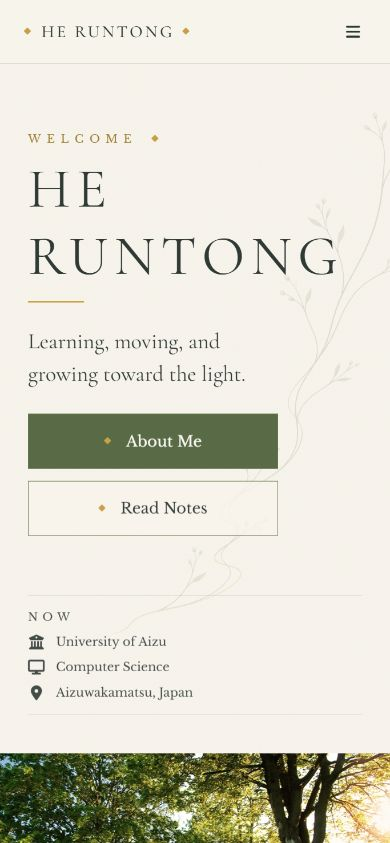
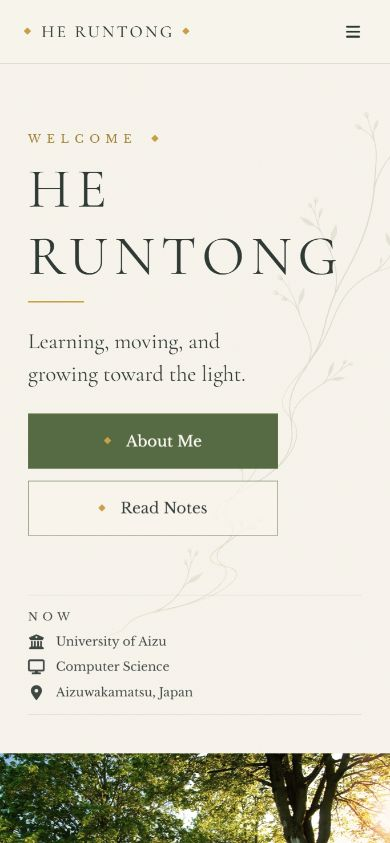
fix: make notes responsive at narrow widths

Changed region(s): [[0.0, 0.8944, 1.0, 1.0], [0.0615, 0.7711, 0.1231, 0.8019]]

diff --git a/assets/css/sunlit-home.css b/assets/css/sunlit-home.css
@@ -19,6 +19,7 @@
 html {
   scroll-behavior: smooth;
   scrollbar-width: none;
+  overflow-x: hidden;
 }
 
 html::-webkit-scrollbar,
@@ -342,6 +343,7 @@ body.sunlit-home {
   grid-template-columns: minmax(0, 1fr) 343px;
   gap: 48px;
   background-color: rgba(250, 248, 241, 0.9);
+  overflow: hidden;
 }
 
 .sunlit-notes h2 {
@@ -506,7 +508,12 @@ body.sunlit-home {
   to { rotate: 1.1deg; }
 }
 
-@media (max-width: 1180px) {
+@media (max-width: 1280px) {
+  .sunlit-notes {
+    grid-template-columns: minmax(0, 1fr) minmax(220px, 28vw);
+    gap: clamp(24px, 3vw, 40px);
+  }
+
   .sunlit-status {
     flex-wrap: wrap;
     justify-content: flex-start;
@@ -518,8 +525,42 @@ body.sunlit-home {
   }
 
   .sunlit-note-row {
-    grid-template-columns: minmax(220px, 1.1fr) minmax(260px, 1.6fr) 100px 16px;
-    gap: 16px;
+    min-height: 76px;
+    padding: 12px 0;
+    grid-template-columns: minmax(0, 1fr) max-content 16px;
+    grid-template-rows: auto auto;
+    column-gap: 16px;
+    row-gap: 4px;
+  }
+
+  .sunlit-note-row strong {
+    grid-column: 1;
+    grid-row: 1;
+  }
+
+  .sunlit-note-row span {
+    grid-column: 1 / -1;
+    grid-row: 2;
+  }
+
+  .sunlit-note-row time {
+    grid-column: 2;
+    grid-row: 1;
+  }
+
+  .sunlit-note-row > i {
+    grid-column: 3;
+    grid-row: 1;
+  }
+
+  .sunlit-preview-frame {
+    width: 100%;
+    height: auto;
+    aspect-ratio: 278 / 202;
+  }
+
+  .sunlit-vine-notes {
+    right: -38px;
   }
 }
 

diff --git a/design-qa.md b/design-qa.md
@@ -9,6 +9,8 @@
 - State: initial page load, top of page, no hover, menu closed.
 - Full comparison: `docs/qa/comparison-desktop.jpg`; the one-pixel width difference in the source is padded rather than stretched.
 - Focused comparisons: `docs/qa/comparison-hero.jpg` and `docs/qa/comparison-notes.jpg`.
+- Responsive regression source: `docs/qa/responsive-overlap-reference.png`; reproduced at a 1000 × 760 CSS viewport in `docs/qa/responsive-before-1000.png`.
+- Responsive post-fix comparison: `docs/qa/responsive-comparison-1000.jpg`, with before on the left and after on the right in the same viewport and Notes interaction state.
 
 ## Visual system check
 
@@ -25,10 +27,13 @@
 3. P2 — Hero title, divider, lead, and actions had a looser vertical rhythm. Adjusted margins and display sizing to match the reference hierarchy.
 4. P2 — The notes preview column and first title wrapping did not line up with the source. Fixed the preview grid width and stabilized the visible title treatment.
 5. P2 — The mobile menu button lacked an accessible name. Added `aria-label="Menu"`; verified open, Escape-to-close, and `aria-expanded` state changes.
+6. P1 — At narrow desktop widths, the four-column Notes row exceeded the space left beside the preview image and visually crossed underneath it. Added a two-row Notes layout through 1280px, a single-column mobile transition at 900px, fluid preview sizing, and section overflow containment.
 
 ## Post-fix evidence
 
 - Desktop and mobile images render without clipping or layout overflow in the tested viewports.
+- Responsive boundary captures at `docs/qa/responsive-notes-1281.png`, `responsive-notes-1280.png`, `responsive-notes-901.png`, `responsive-notes-900.png`, and `responsive-notes-390.png` show clean transitions on both sides of each breakpoint.
+- Measured document width matches viewport width at 1281, 1280, 1181, 1000, 901, 900, 768, 560, 390, and 320px; the 1488px desktop root is also contained at exactly 1488px.
 - The note preview changes from the winter image to `Changjiang.jpg` on the third row's hover/focus state.
 - The mobile menu opens, reports `aria-expanded="true"`, closes with Escape, and returns to `aria-expanded="false"`.
 - Browser console check returned no warnings or errors.

diff --git a/DEVLOG.md b/DEVLOG.md
@@ -7,3 +7,7 @@
 - Added a project-local transparent botanical illustration for the hero and notes decoration.
 - Added restrained motion: staged page entrance, image and vine parallax, scroll reveals, mobile navigation, button and note-row states, and hover/focus-driven note preview changes.
 - Kept reduced-motion behavior and keyboard focus as first-class accessibility paths.
+
+### Responsive follow-up
+
+- Reflowed Recent Notes into a two-row tablet layout before its preview image can squeeze the text columns, then preserved the existing single-column mobile layout below 900px.
